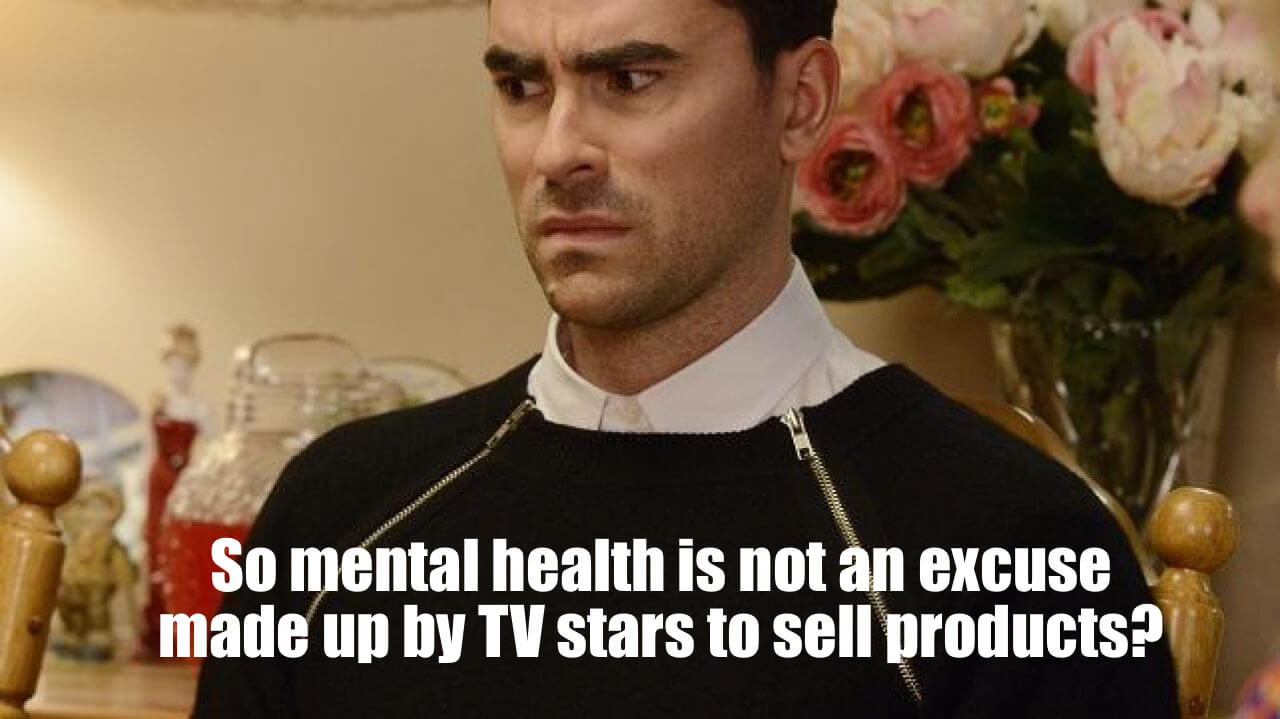
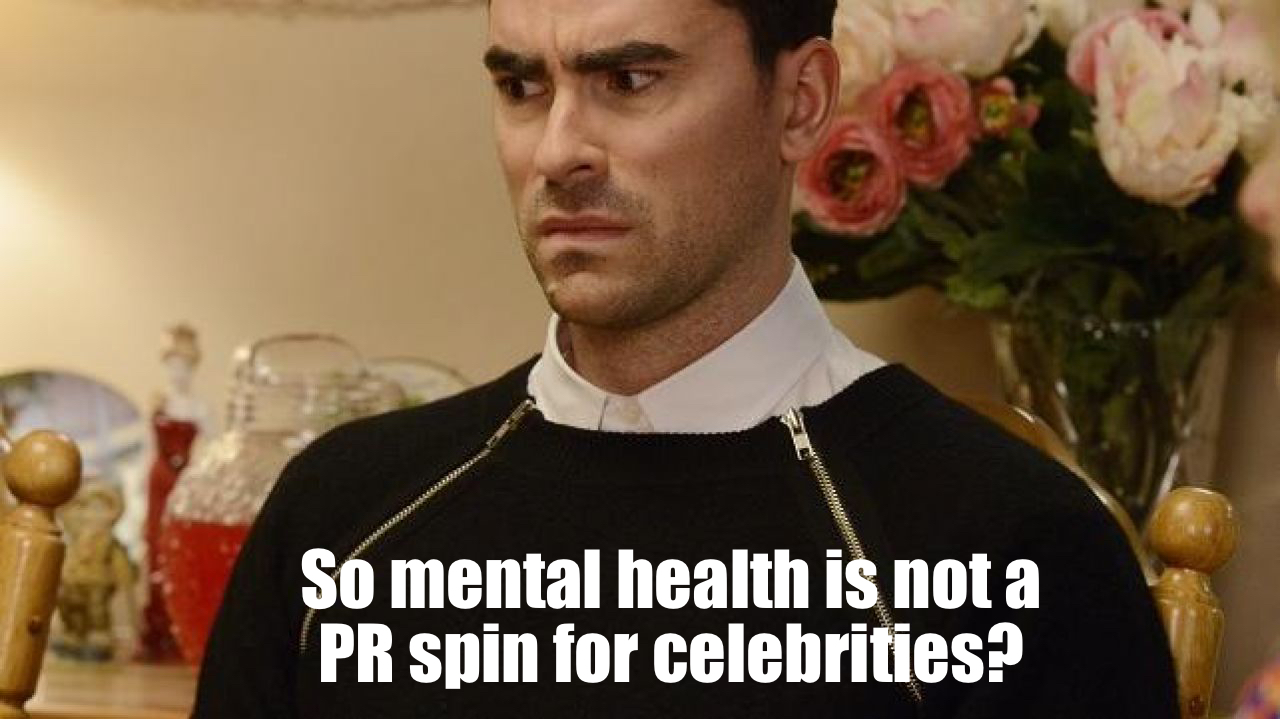
Fix: Formatting (#3)
* Fixed Schitt's Creek Quote, formatting changes

* Fix: Formatting

Changed region(s): [[0.125, 0.7344, 0.9062, 0.9791]]

diff --git a/readme.md b/readme.md
@@ -1,26 +1,22 @@
 ![header_image](./assets/cover_image_mentem.png)
 ## The Idea
+Mental health issues often don't get into the headlies of many discussions regarding public health. However, this is one area where technology could go a long way.
+
 We wanted to implement a system where people could have access to effective, yet discrete mental health support. In a nutshell, we wanted to build a safe space.
 
 ### The present situation...
 ---
-We've spent a long time ignoring a multitude of facets of life under the tag of "man up" or dont be a baby, or to quote David rose from Schitt's Creek, 
+We've spent a long time ignoring a multitude of facets of life under the tag of "man up" or dont be a baby, or to quote David rose from Schitt's Creek...
 
 ![David Rose](./assets/schitts_creek_mental_health.jpeg)
 
-This needs to change.  It's gonna happen only if we start talking about it OPENLY. Remove the stigma around it.
+This needs to change.  It's gonna happen only if we start talking about it <b>openly</b>. Take off the stigma around it.
 
 ### How did we get here?
 ---
 So we got a chance to take part in a [state wide hackathon](https://reboot.asapkerala.gov.in) and we picked the healthcare track. We wanted to build something that (duh, would win, but also) once deployed, could help make atleast a minor difference in a few people's lives. 
 
 > As they say, Baby steps. Baby steps first.
-
-We chose the following problem statement 
->
-
-We were given exposure to professionals in the field of mental health. 
-
 
 ### What is mentem?
 ---
@@ -39,7 +35,16 @@ Here's a quick video showing what is included out of the box.
 ![The Doctor's side](assets/doctor.gif)
 <!-- [![The Doctor's side](assets/vid_2.gif)](https://youtu.be/Uis3MZ23ilg) -->
 
-Find the slides [here](https://speakerdeck.com/nullpointxr/mentem)
+#### Super condensed description with tech involved 
+---
+##### What we have is a web app, which for the average user, works like a chatbot presents takes questions from the MS test (a standardized test for measuring mental health). The reports are sent to a medical practitioner. 
+
+##### There's a live chat feature for consultation, which implements a few emotion/sentiment detection models and gives the results to the doctor during the video chat. 
+
+##### We were given exposure to professionals in the field of mental health, and desicions on implementations were taken after consulting with them.
+---
+
+Find the slides we used [here](https://speakerdeck.com/nullpointxr/mentem)
 
 
 #### Graphic Credits
